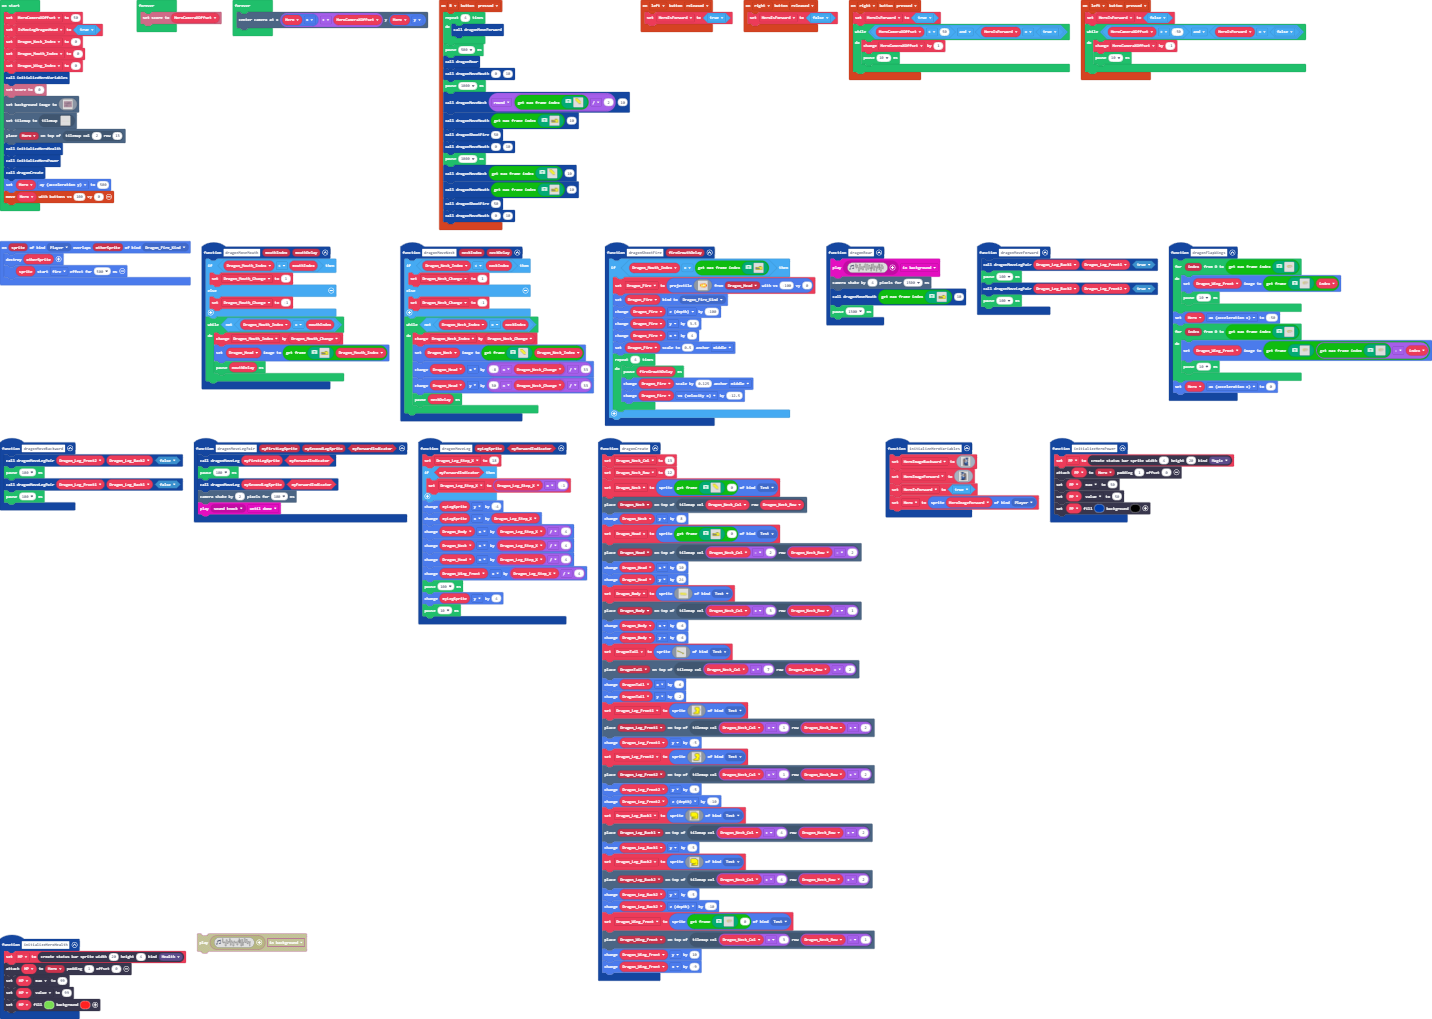
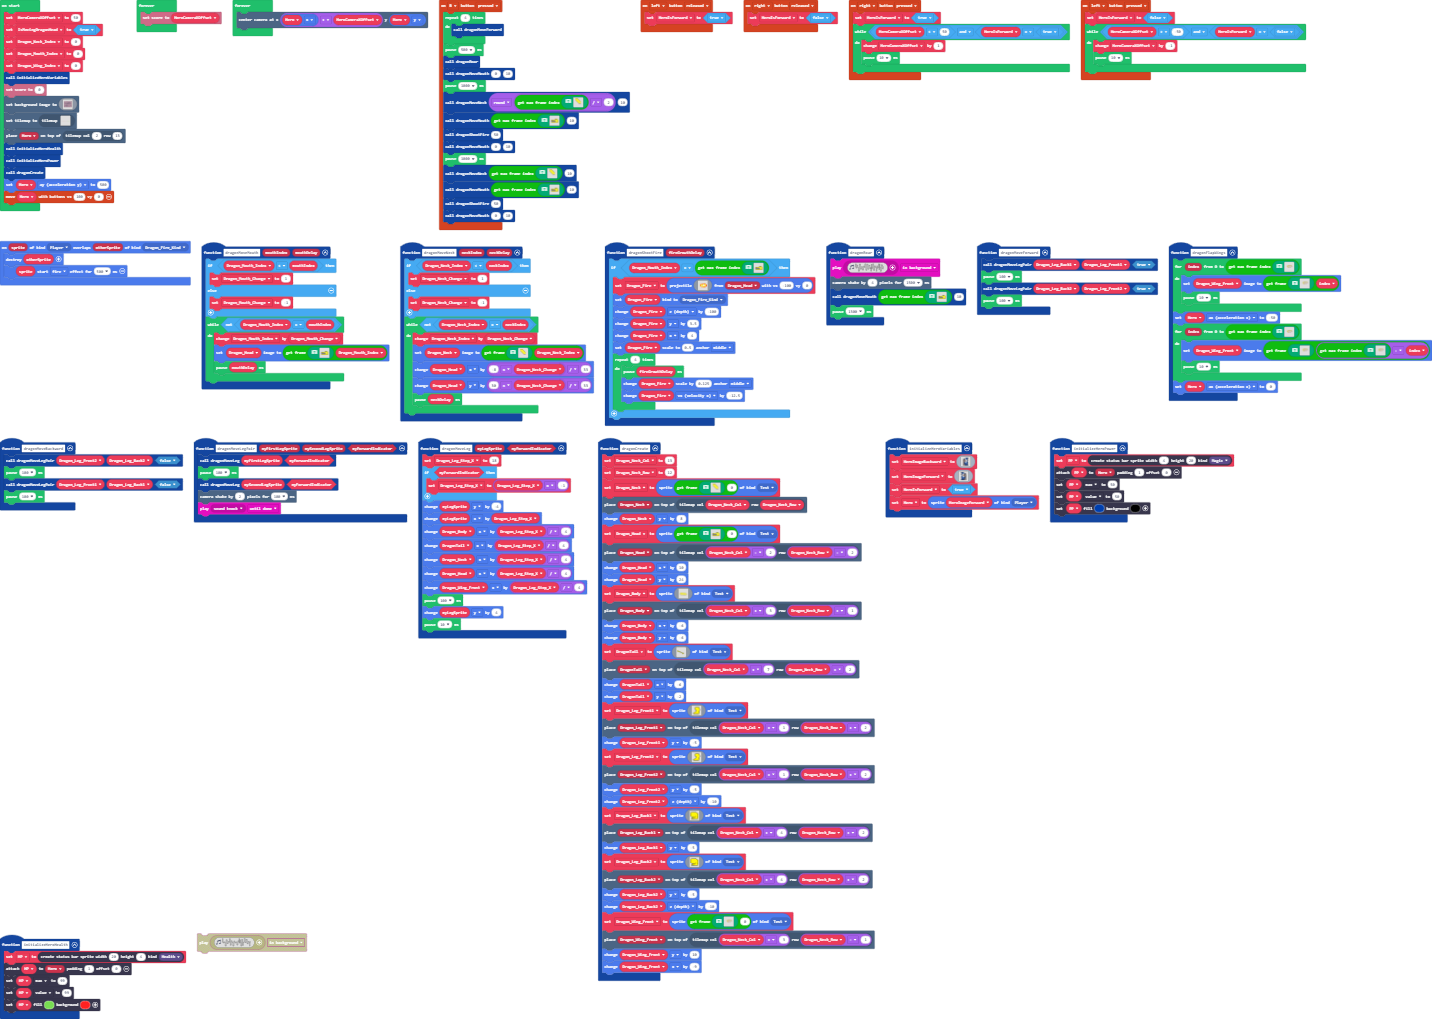
Update main.blocks, main.ts

Changed region(s): [[0.2765, 0.5172, 0.4302, 0.6389]]

diff --git a/main.ts b/main.ts
@@ -84,6 +84,7 @@ function dragonMoveLeg (myLegSprite: Sprite, myForwardIndicator: boolean) {
     myLegSprite.y += -4
     myLegSprite.x += Dragon_Leg_Step_X
     Dragon_Body.x += Dragon_Leg_Step_X / 4
+    DragonTail.x += Dragon_Leg_Step_X / 4
     Dragon_Neck.x += Dragon_Leg_Step_X / 4
     Dragon_Head.x += Dragon_Leg_Step_X / 4
     Dragon_Wing_Front.x += Dragon_Leg_Step_X / 4
